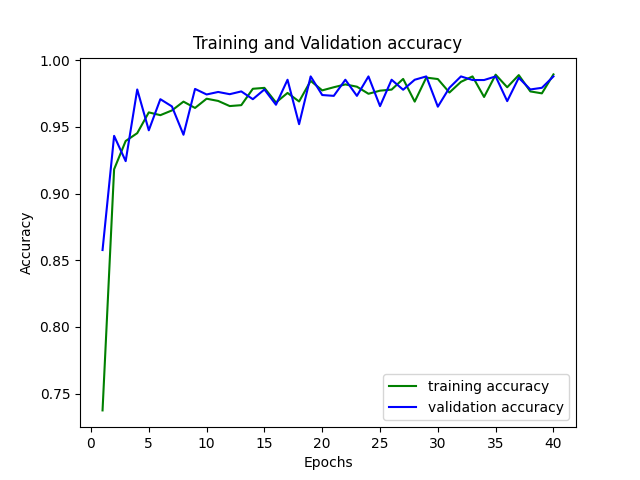
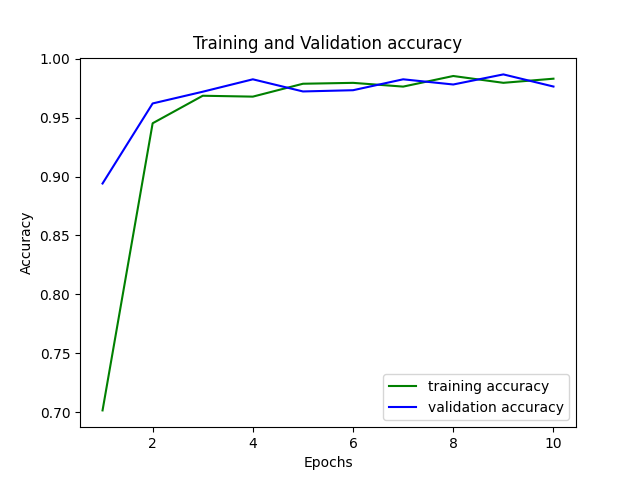
fit model_02

diff --git a/model_02.py b/model_02.py
@@ -12,7 +12,7 @@ import matplotlib.pyplot as plt
 
 width = 128 
 height = 128
-epochs = 20
+epochs = 10
 
 df = pd.read_csv ("./images/images_color_range.csv", sep=',') 
 #print(df['color'].head())
@@ -34,10 +34,10 @@ print(y_train)
 
 model = keras.Sequential([
     keras.layers.Dense(32, activation='relu', input_shape=[3]), #inputshape=[3] #  kernel_regularizer=regularizers.l2(0.001),
-    keras.layers.Dense(32, activation='relu'), #  kernel_regularizer=regularizers.l2(0.001),
+    keras.layers.Dense(64, activation='relu'), #  kernel_regularizer=regularizers.l2(0.001),
     keras.layers.Dense(32, activation='relu'), #  kernel_regularizer=regularizers.l2(0.001),
     keras.layers.Dense(24, activation='relu'), #  kernel_regularizer=regularizers.l2(0.001),
-    keras.layers.Dense(32, activation='relu'), #  kernel_regularizer=regularizers.l2(0.001),
+    keras.layers.Dense(16, activation='relu'), #  kernel_regularizer=regularizers.l2(0.001),
 
 
     keras.layers.Dense(16)
